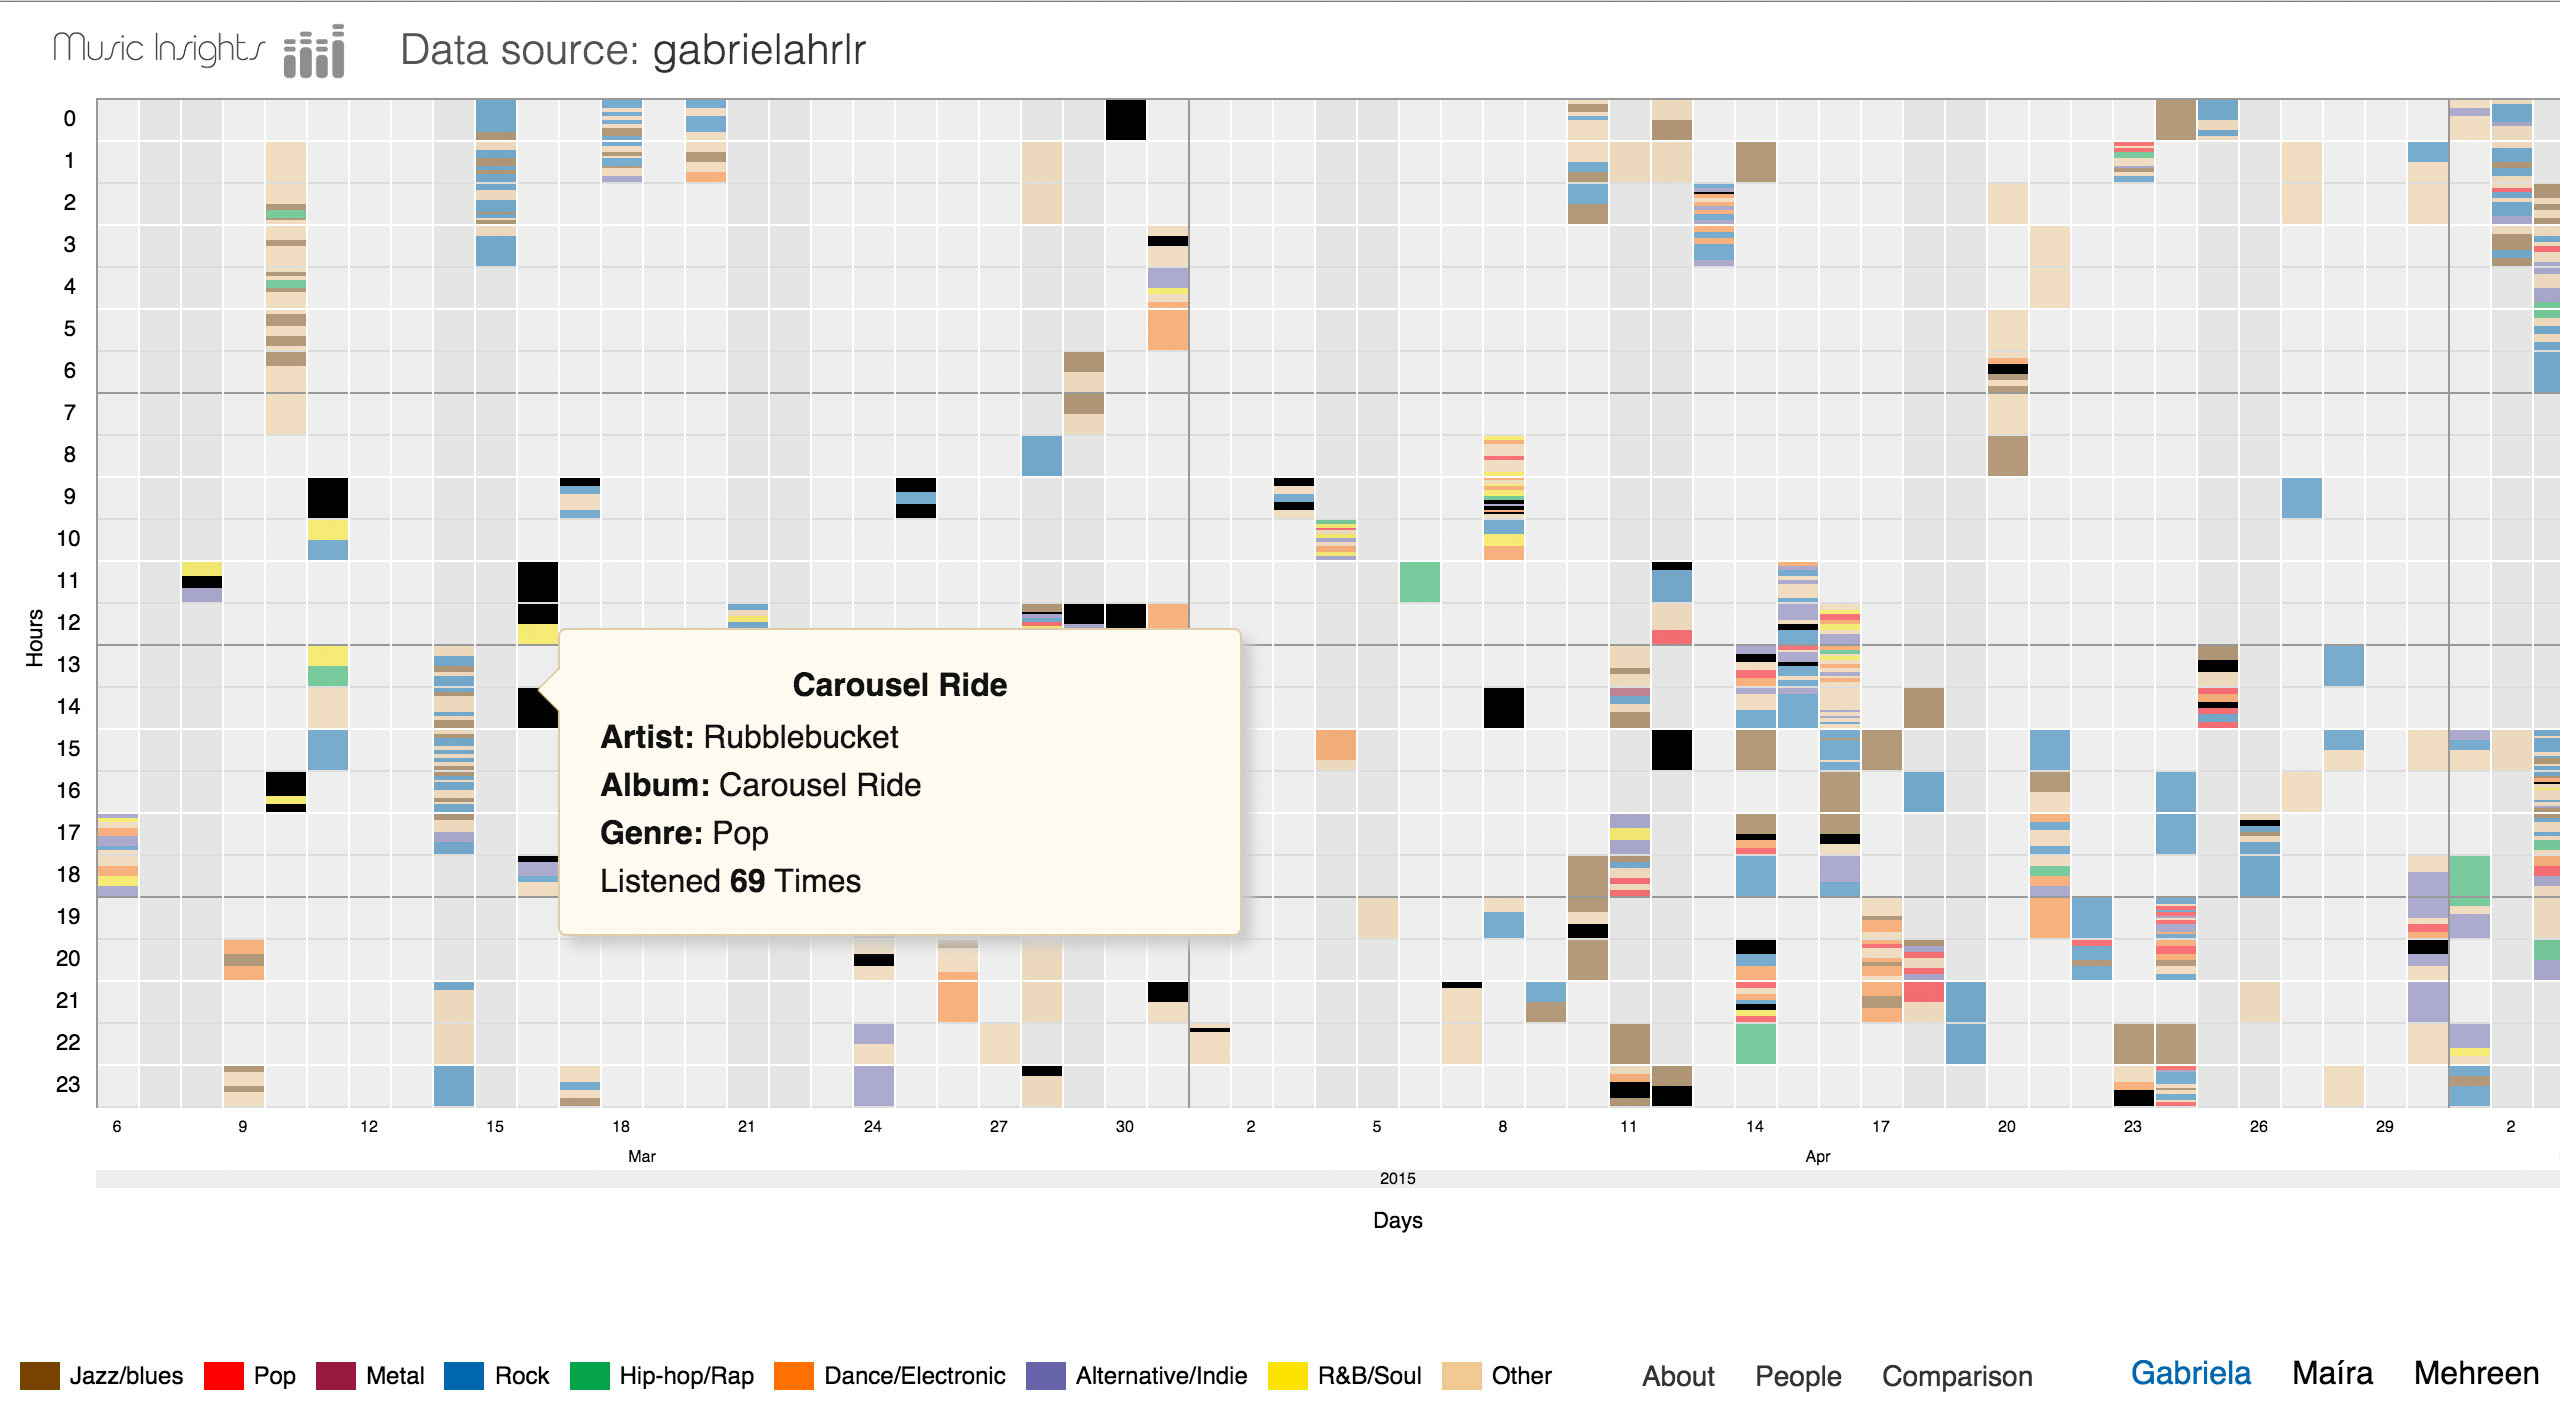
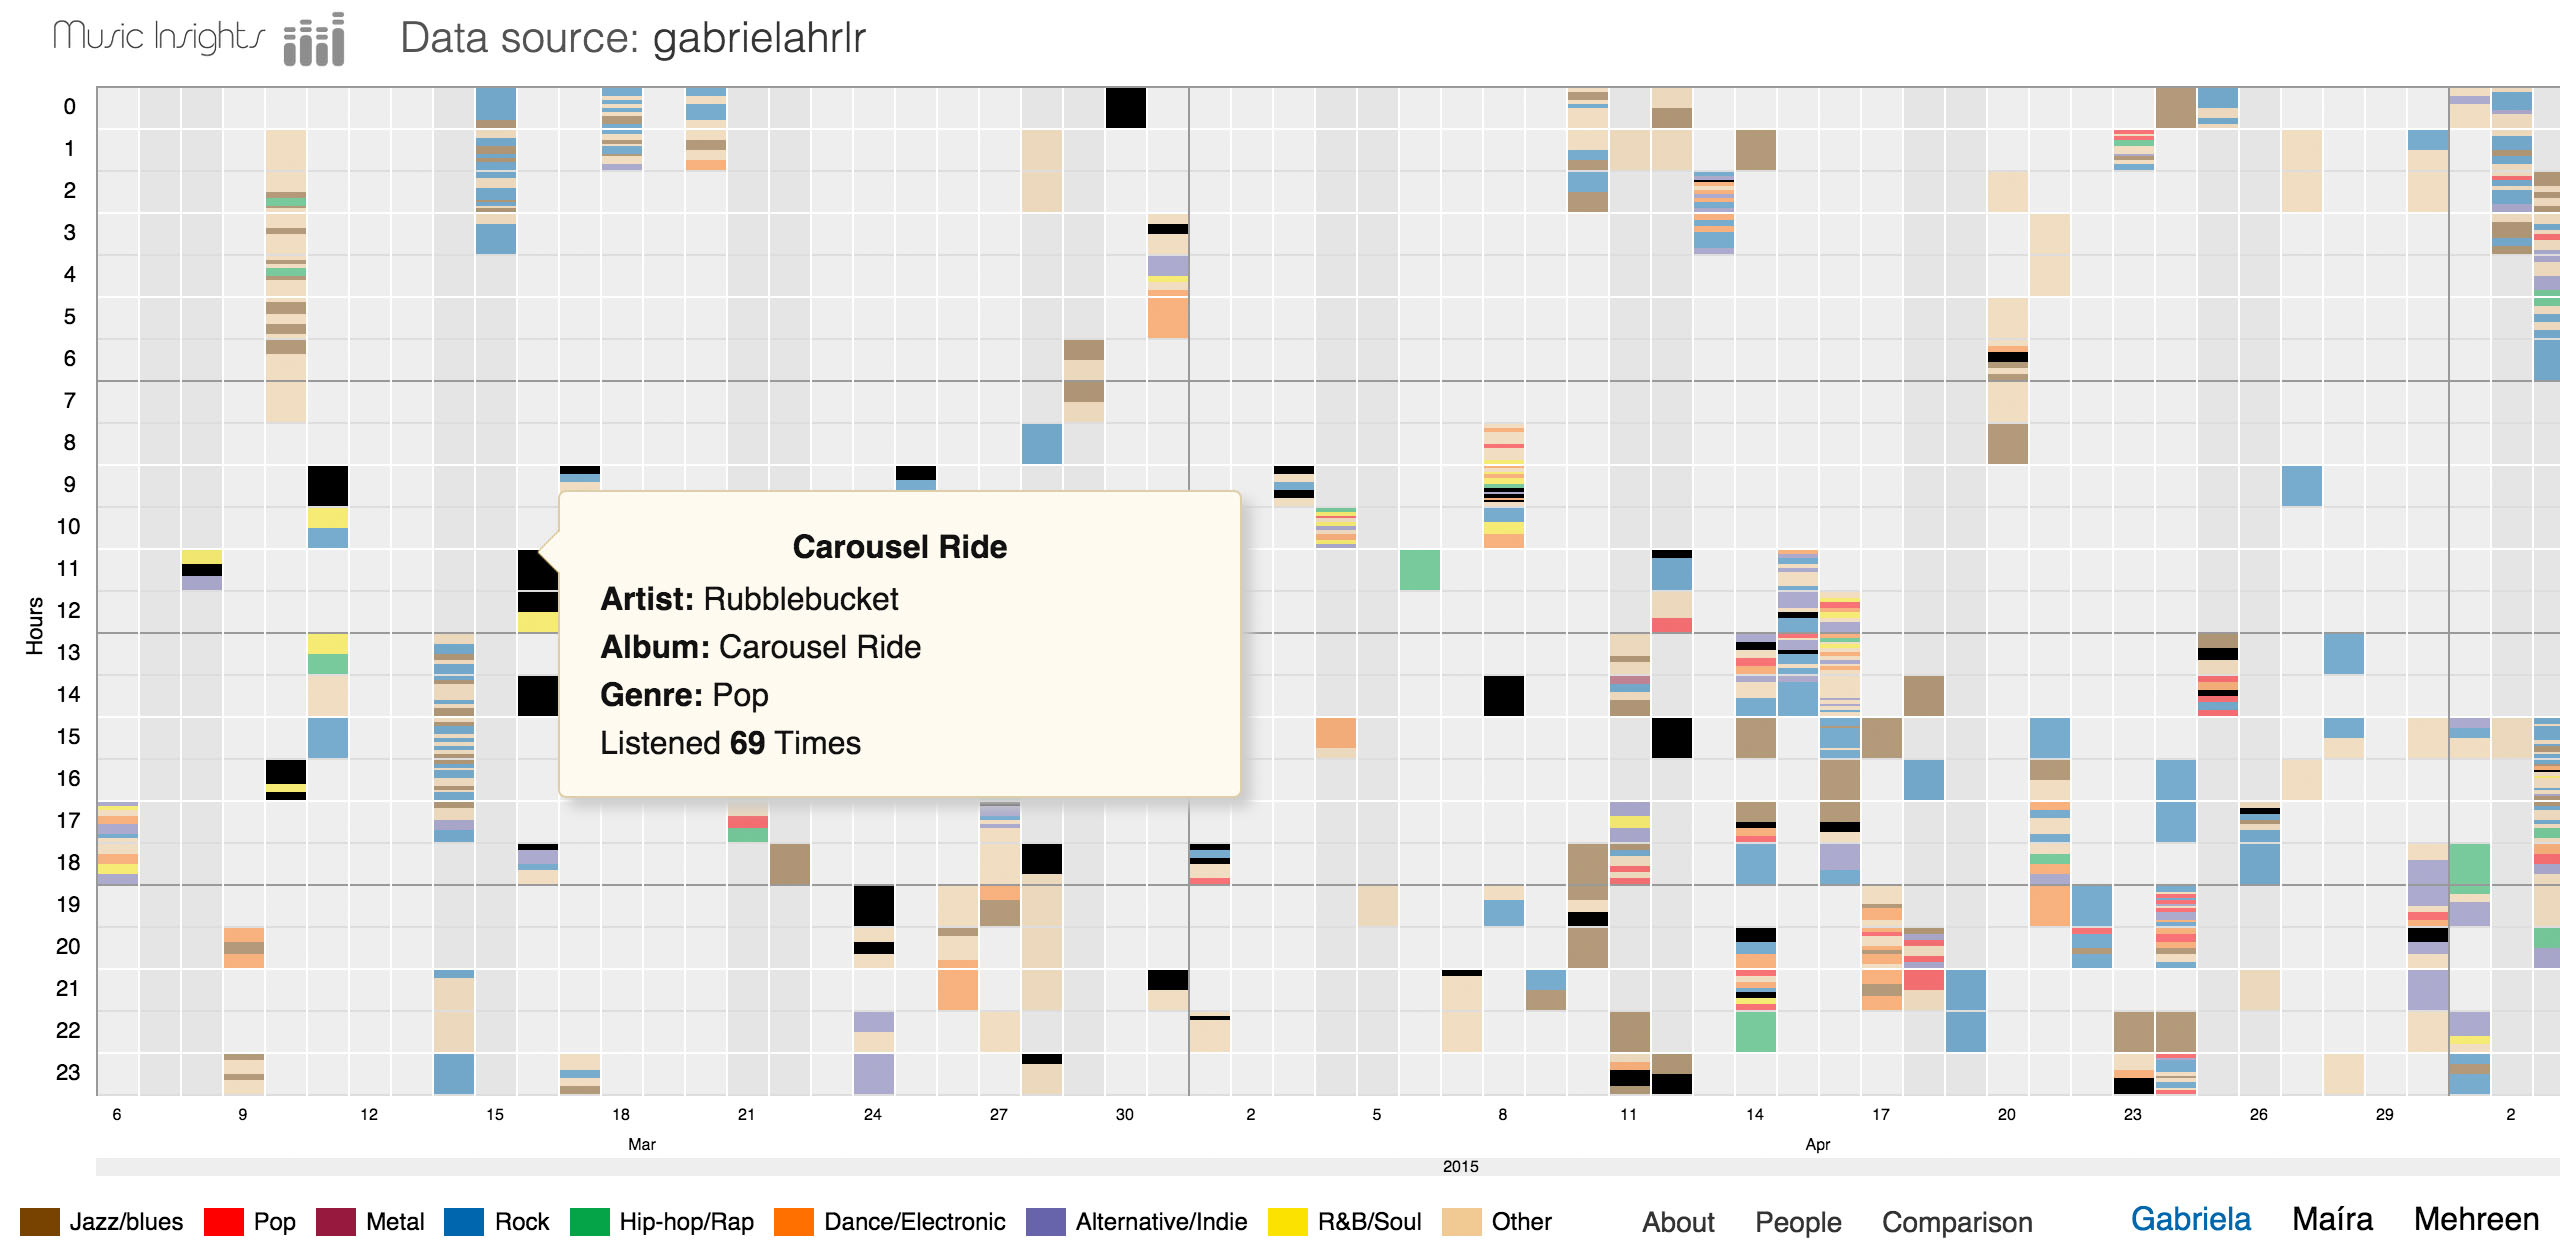
images fixes

diff --git a/static/css/default.css b/static/css/default.css
@@ -431,7 +431,7 @@ div.tooltip span.extra_info .info div {
     padding: 0 0 0 40px;
 }
 
-.years_axis::after {
+/*.years_axis::after {
     content: "Days";
     width: 100%;
     height: 20px;
@@ -440,7 +440,7 @@ div.tooltip span.extra_info .info div {
     float: left;
     font-size: 11px;
     margin-top: 10px;
-}
+}*/
 
 .months_axis li, .years_axis li {
     float: left;
